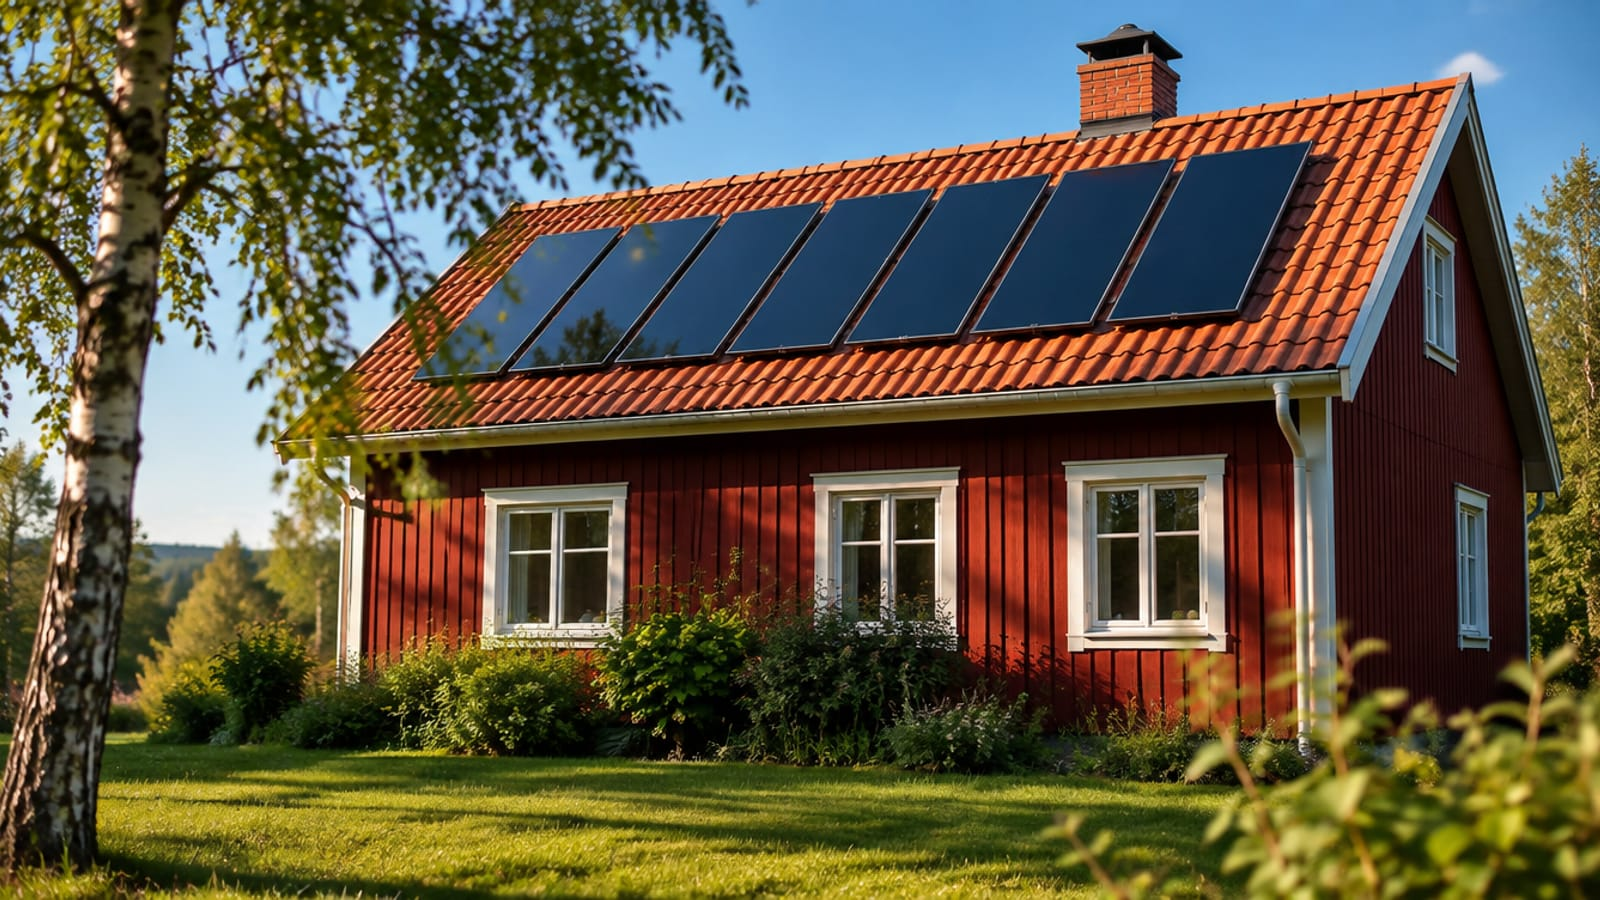
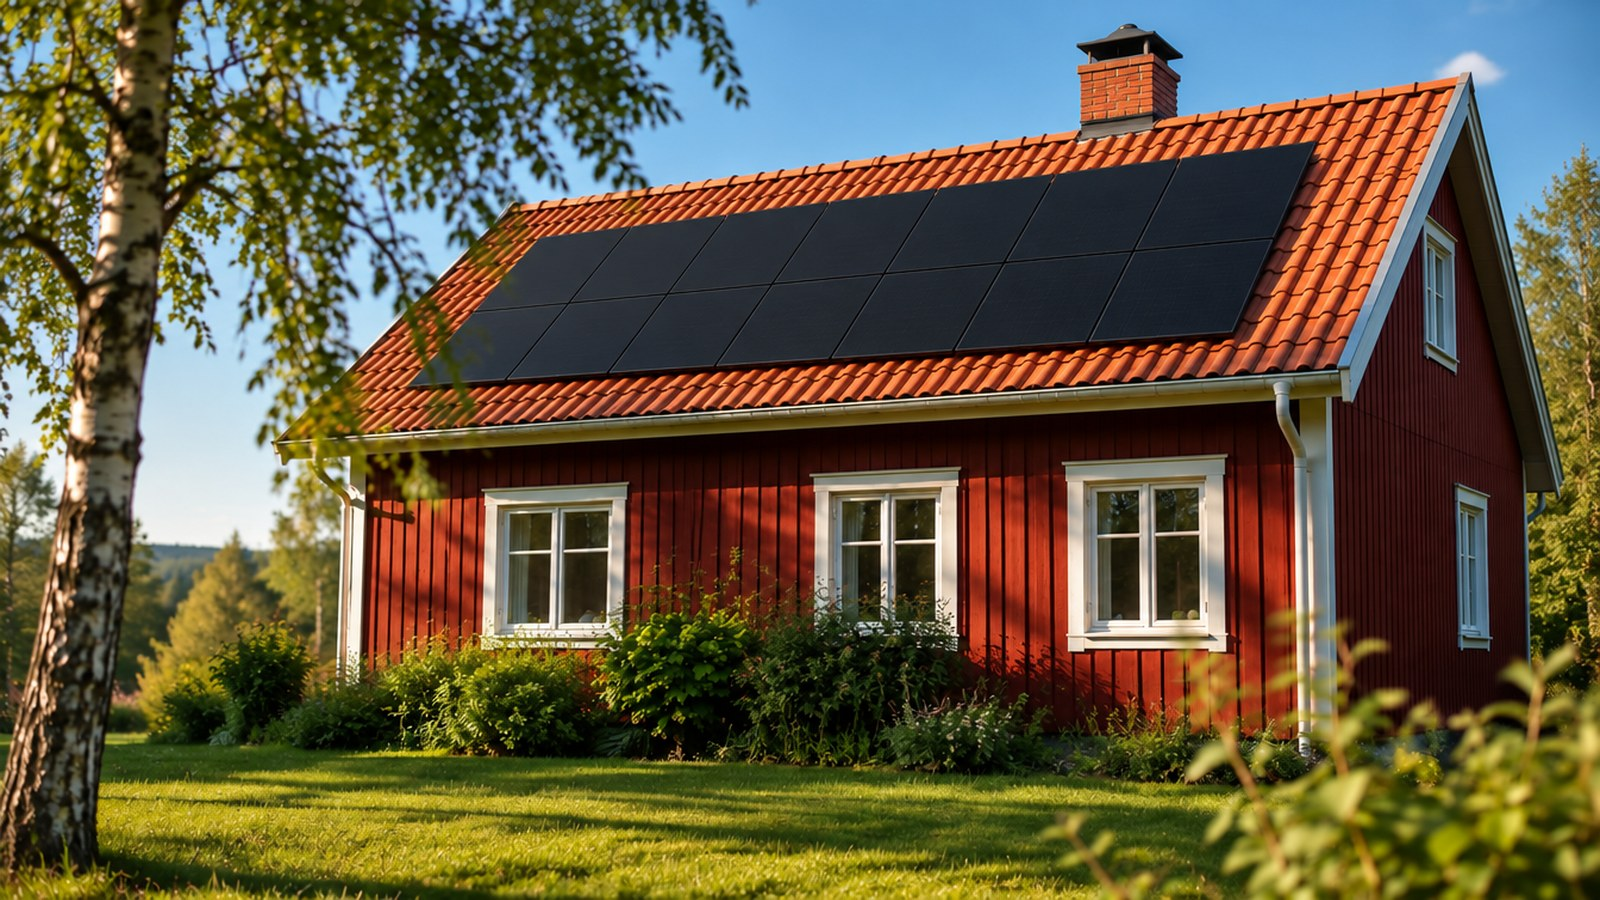
Guider: egna bilder per guide, tätare solpaneler och triptyk på Sigenergy-granskningen
- Sigenergy-granskningens hjältebild är nu tre riktiga installationer,
  uppstädade och perspektivrätade: SigenStor 27 kWh med Energy Controller
  mot mörk träpanel, Fox ESS CQ7 35 kWh mot putsad fasad och Eway 30,72 kWh
  med Solinteg i garage. Bilden är komponerad för 21:9 och beskärs inte på
  mobil (ny wide-flagga på KbHeroImage).
- Guider som delade kategoribild har egna bilder: ladda elbil hemma,
  Villaeffekten och grönt avdrag. Hubben använder guidens egen bild.
- Solcellsbilden (röda huset) har panelerna monterade kant i kant.
- Versionsparameter på kunskapsbankens bilder så att ersatta bilder
  inte fastnar i cache.

Claude-Session: https://claude.ai/code/session_01VbdCy9Ku8jkJXLeDU5DdjA

diff --git a/src/lib/guides.ts b/src/lib/guides.ts
@@ -41,7 +41,7 @@ export type Guide = {
   /** Källorna guiden bygger på – visas under texten och blir citation i schemat. */
   sources?: KbSource[];
   /** Egen hjältebild (annars kategorins foto eller en uppladdad bild). */
-  heroImage?: { src: string; alt: string };
+  heroImage?: { src: string; alt: string; wide?: boolean };
 };
 
 export const GUIDES: Guide[] = [
@@ -49,8 +49,9 @@ export const GUIDES: Guide[] = [
     slug: "sigenergy-sigenstor-granskning",
     status: "published",
     heroImage: {
-      src: "/kb/guider-sigenergy-sigenstor-granskning.webp",
-      alt: "Tre hembatterier sida vid sida: Sigenergy SigenStor med tre batterimoduler och Energy Controller, Eway UNIV7600 med fyra moduler (30,72 kWh) och Fox ESS CQ7 med fem moduler (35,1 kWh)",
+      wide: true,
+      src: "/kb/guider-sigenergy-sigenstor-granskning-v2.webp",
+      alt: "Tre installerade hembatterier: Sigenergy SigenStor 27 kWh med Energy Controller mot mörk träpanel, Fox ESS CQ7 35 kWh mot putsad fasad och Eway 30,72 kWh med Solinteg hybridväxelriktare i ett garage",
     },
     title: "Kungen utan krona? Så står sig Sigenergy SigenStor mot ett öppet batterisystem",
     excerpt:
@@ -170,6 +171,7 @@ export const GUIDES: Guide[] = [
   {
     slug: "villaeffekten-bidrag",
     status: "published",
+    heroImage: { src: "/kb/guide-villaeffekten.jpg", alt: "Luft-vattenvärmepumpens utedel på en betongplatta intill en gul träfasad" },
     title: "Vad är Villaeffekten och vem kan söka bidraget 2026?",
     excerpt: "Villaeffekten ger 30 % av materialkostnaden, högst 60 000 kr, för energiåtgärder i småhus med värdeår före 1990. Så söker du hos Boverket och Länsstyrelsen.",
     category: "Ekonomi",
@@ -225,6 +227,7 @@ export const GUIDES: Guide[] = [
   {
     slug: "ladda-elbil-hemma-kostnad",
     status: "published",
+    heroImage: { src: "/kb/guide-ladda-elbil-hemma.jpg", alt: "Elbil som laddar vid en laddbox på garagets vägg en höstkväll" },
     title: "Vad kostar det att ladda elbilen hemma – och behöver man en laddbox?",
     excerpt: "Att ladda elbilen hemma kostar cirka 4 kr per mil vid 2 kr/kWh och 2 kWh/mil. Elsäkerhetsverket avråder från vanligt vägguttag. Laddbox ger 50 % avdrag 2026.",
     category: "Laddbox",
@@ -478,6 +481,7 @@ export const GUIDES: Guide[] = [
   {
     slug: "gront-avdrag-2026",
     status: "published",
+    heroImage: { src: "/kb/guide-gront-avdrag.jpg", alt: "Hembatteri och hybridväxelriktare installerade på väggen i ett garage" },
     title: "Hur mycket grönt avdrag får man 2026 – och vad gäller 2027?",
     excerpt: "Grönt avdrag 2026: 15 % för solceller, 50 % för batteri och laddbox, högst 50 000 kr per person och år. Villkor, vad som ingår, värmepump och läget inför 2027.",
     category: "Ekonomi",

diff --git a/src/app/guider/[slug]/page.tsx b/src/app/guider/[slug]/page.tsx
@@ -52,7 +52,7 @@ export default function GuidePage({ params }: { params: { slug: string } }) {
   const content = getGuideContent(guide.slug);
   const heroImage = getMedia(`guide:${guide.slug}`);
   // Uppladdad bild först, sedan guidens egen bild i koden, annars kategorins foto.
-  const hero = heroImage
+  const hero: { src: string; alt: string; wide?: boolean } = heroImage
     ? { src: heroImage.url, alt: heroImage.alt || guide.title }
     : guide.heroImage ?? kbImage(guideCategoryImageKey(guide.category));
   const path = `/guider/${guide.slug}`;
@@ -116,7 +116,7 @@ export default function GuidePage({ params }: { params: { slug: string } }) {
           ]}
         />
         <div className="mt-6 md:mt-8 max-w-3xl">
-          <KbHeroImage image={hero} tone="moss" label={`Guider · ${guide.category}`} />
+          <KbHeroImage image={hero} tone="moss" label={`Guider · ${guide.category}`} wide={hero.wide} />
         </div>
         <div className="mt-8 max-w-3xl">
           <div className="flex flex-wrap items-center gap-x-3 gap-y-1.5">

diff --git a/src/components/kb/KbVisuals.tsx b/src/components/kb/KbVisuals.tsx
@@ -12,13 +12,20 @@ export function KbHeroImage({
   image,
   tone,
   label,
+  wide = false,
 }: {
   image: KbImage;
   tone: KbTone;
   label?: string;
+  /** Bilden är komponerad för 21:9 och ska inte beskäras på mobil. */
+  wide?: boolean;
 }) {
   return (
-    <figure className="relative overflow-hidden rounded-2xl md:rounded-3xl border border-ink/10 bg-cream aspect-[16/9] sm:aspect-[21/9]">
+    <figure
+      className={`relative overflow-hidden rounded-2xl md:rounded-3xl border border-ink/10 bg-cream ${
+        wide ? "aspect-[21/9]" : "aspect-[16/9] sm:aspect-[21/9]"
+      }`}
+    >
       <Image
         src={image.src}
         alt={image.alt}

diff --git a/src/app/guider/page.tsx b/src/app/guider/page.tsx
@@ -72,7 +72,7 @@ export default function GuidesHubPage() {
             const isPublished = g.status === "published";
             // Guidens egen bild om en laddats upp, annars kategorins foto.
             const own = getMedia(`guide:${g.slug}`);
-            const cover = own ? { src: own.url, alt: own.alt || g.title } : kbImage(guideCategoryImageKey(g.category));
+            const cover = own ? { src: own.url, alt: own.alt || g.title } : g.heroImage ?? kbImage(guideCategoryImageKey(g.category));
             const body = (
               <article
                 className={[

diff --git a/src/lib/kb-visuals.ts b/src/lib/kb-visuals.ts
@@ -132,8 +132,12 @@ export const KB_IMAGES = {
 
 export type KbImageKey = keyof typeof KB_IMAGES;
 
+/** Versionssträng som byts när en bild i /public/kb ersätts – Vercel och
+ *  webbläsare cachar annars den gamla bilden på samma adress. */
+const KB_IMAGE_VERSION = "20261101";
+
 export function defaultKbImage(key: KbImageKey): KbImage {
-  return { src: `/kb/${key}.jpg`, alt: KB_IMAGES[key].alt };
+  return { src: `/kb/${key}.jpg?v=${KB_IMAGE_VERSION}`, alt: KB_IMAGES[key].alt };
 }
 
 /** Solcellsfrågornas kategori → foto. */
